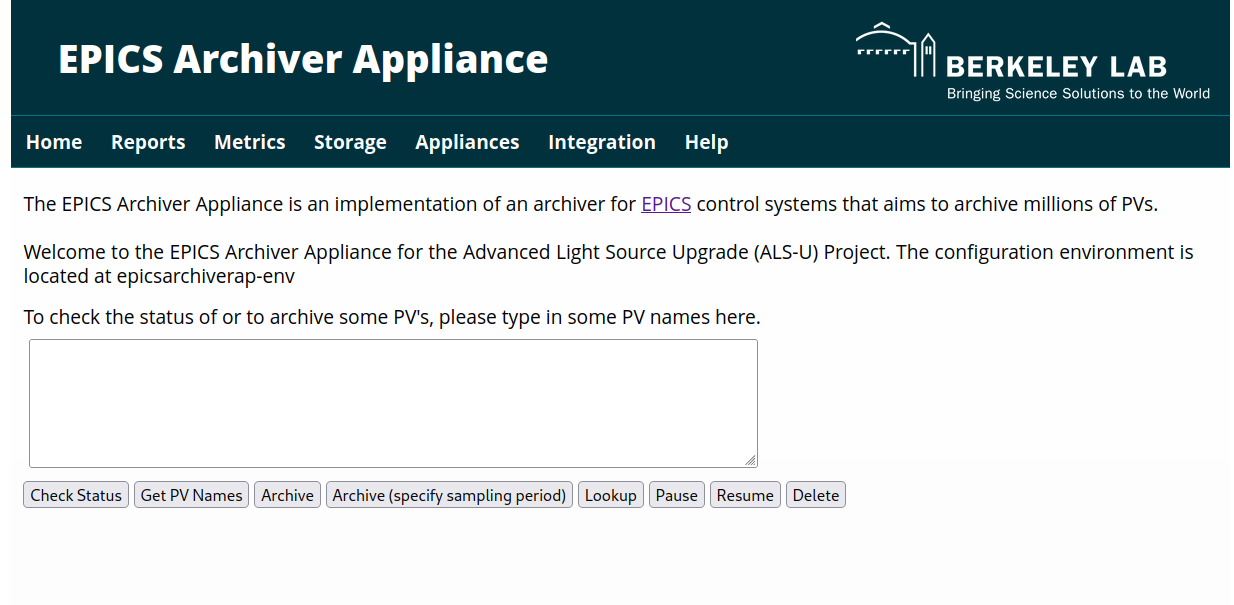
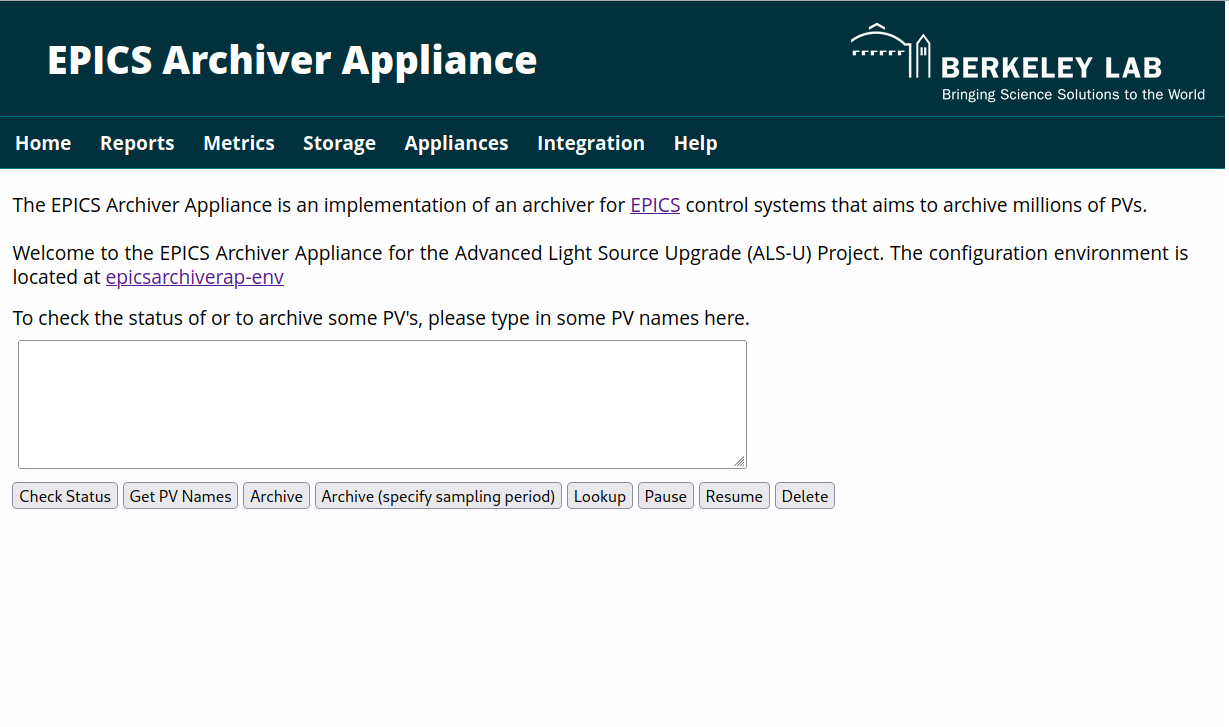
security patch for pom and fixed template_changes.html

diff --git a/site-template/siteid/template_changes.html b/site-template/siteid/template_changes.html
@@ -21,7 +21,7 @@
 <p>The EPICS Archiver Appliance is an implementation of an archiver for <a href="https://epics-controls.org/">EPICS</a> control systems that aims to archive millions of PVs. </p>
 
 <p>Welcome to the EPICS Archiver Appliance for the Advanced Light Source Upgrade (ALS-U) Project. The configuration environment is located at
-<a= href="https://github.com/jeonghanlee/epicsarchiverap-env">epicsarchiverap-env</a></p>
+<a href="https://github.com/jeonghanlee/epicsarchiverap-env">epicsarchiverap-env</a></p>
 
 <!-- @end(site_contact_text) -->
 
